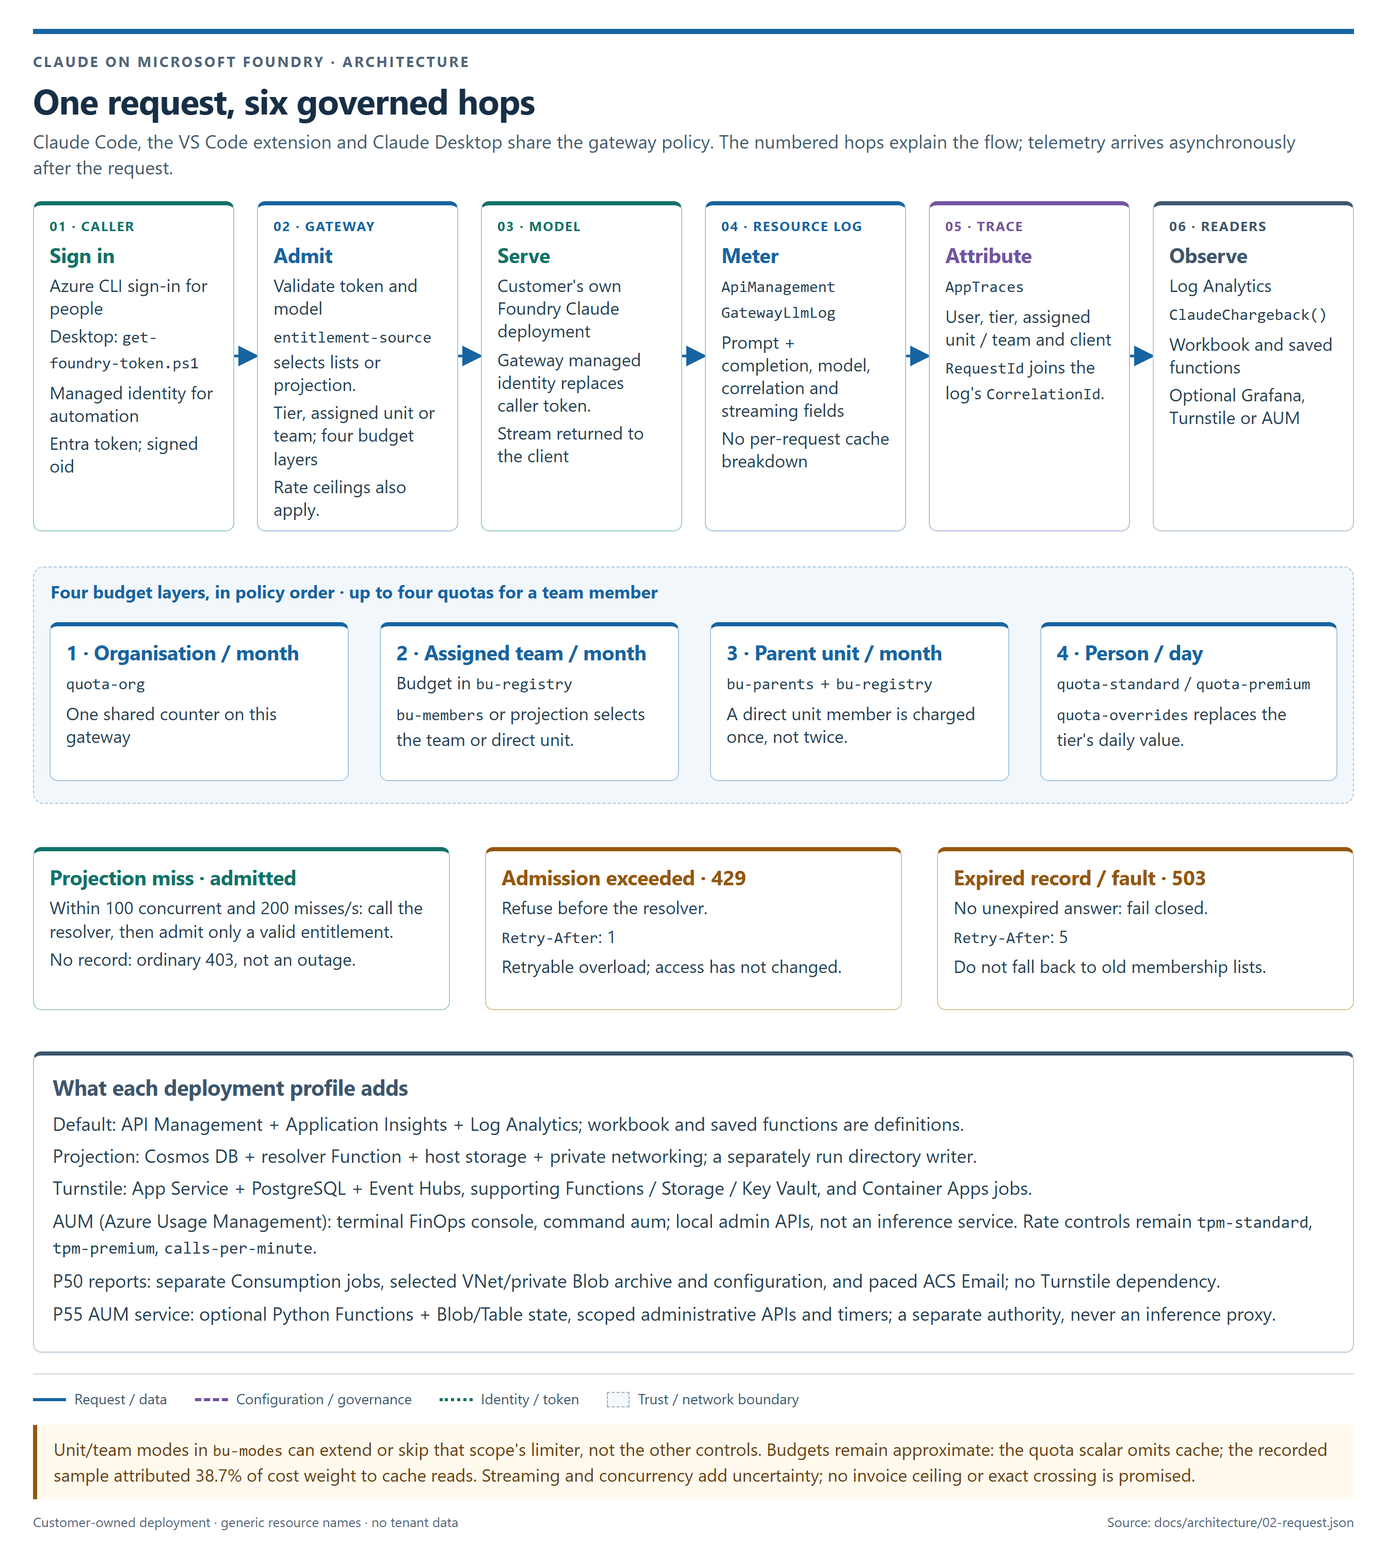
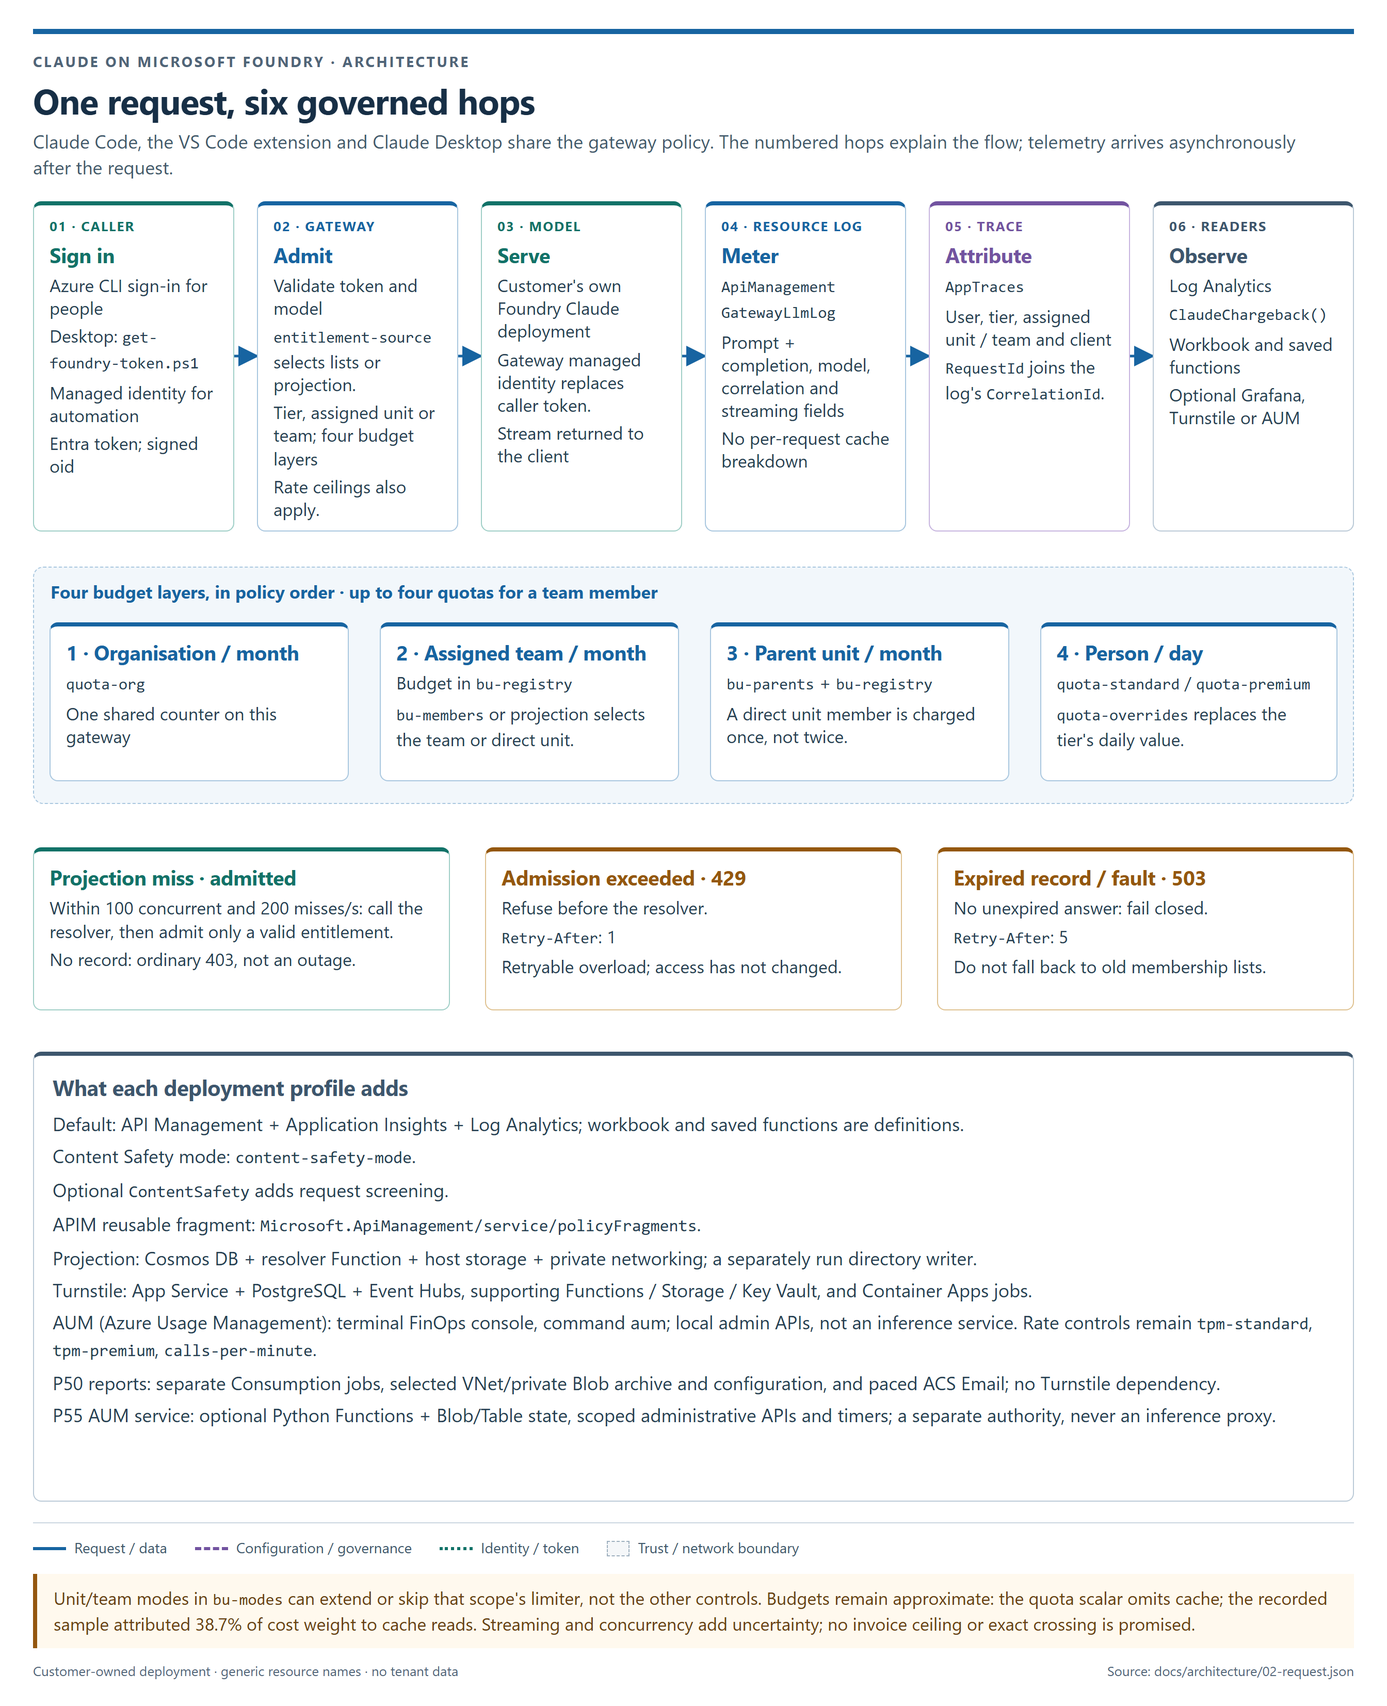
docs(p102): document content safety operations and architecture
Why: P102 adds a new optional data flow and operator surface, so the user guide, architecture diagrams, ledger, changelog, README guide map and installer switch must move with the code.

GREEN: node guide\render-architecture.mjs regenerated 19 PNGs; pwsh -NoProfile -File .\tests\Test-Architecture.ps1 passed with 36 assertions; Test-DocReferences.ps1 and Test-DocMarkdown.ps1 passed; Test-ContentSafetyDeployment.ps1 passed with 9 assertions including the installer opt-in switch.

Copilot-Session: aee52ac6-1314-40f4-9675-e225529db617

Changed region(s): [[0.0312, 0.0, 0.9688, 0.9967], [0.9062, 0.7787, 0.9375, 0.8098]]

diff --git a/CHANGELOG.md b/CHANGELOG.md
@@ -29,6 +29,7 @@ exact streaming cache-creation detail remains **U13**.
 
 ### Added
 
+- **P102 Azure AI Content Safety request screening.** The gateway can opt into an Azure AI Content Safety account and APIM policy fragment that screens the system prompt plus the newest user turn before Foundry. `content-safety-mode` supports `off`, `audit` and `block`; existing deployments default to `off` and create no Content Safety account. The offline policy tests cover benign, harmful, jailbreak, image-only, streaming, long-context and fabricated-history cases, failure modes and safe trace metadata. Deployment tests cover the Content Safety account, named values, role assignment, fragment wiring and region readiness. `scripts/Test-ClaudeLiveContentSafety.ps1` is the owner-run disposable live proof and teardown script.
 - **P98 the installer deploys the Cosmos projection by default.** `Install-ClaudeGateway.ps1` offers
   the projection first, as recommended, for every size; `-Yes` chooses it, and named values above their
   capacity are refused, also under `-Yes` and `-Sku`, from `-DeveloperCount` or the tier groups' members
@@ -2057,6 +2058,7 @@ is below the scale at which chargeback is a question worth asking.
 
 ### Added
 
+- **P102 Azure AI Content Safety request screening.** The gateway can opt into an Azure AI Content Safety account and APIM policy fragment that screens the system prompt plus the newest user turn before Foundry. `content-safety-mode` supports `off`, `audit` and `block`; existing deployments default to `off` and create no Content Safety account. The offline policy tests cover benign, harmful, jailbreak, image-only, streaming, long-context and fabricated-history cases, failure modes and safe trace metadata. Deployment tests cover the Content Safety account, named values, role assignment, fragment wiring and region readiness. `scripts/Test-ClaudeLiveContentSafety.ps1` is the owner-run disposable live proof and teardown script.
 - Chargeback ledger: `analytics/chargeback-ledger.kql`, one row per request with
   the caller attached. Built on the API Management LLM log rather than custom
   metrics, because Microsoft caps a metric dimension at 100 unique values and
@@ -2115,6 +2117,7 @@ compliance retrieval.
 
 ### Added
 
+- **P102 Azure AI Content Safety request screening.** The gateway can opt into an Azure AI Content Safety account and APIM policy fragment that screens the system prompt plus the newest user turn before Foundry. `content-safety-mode` supports `off`, `audit` and `block`; existing deployments default to `off` and create no Content Safety account. The offline policy tests cover benign, harmful, jailbreak, image-only, streaming, long-context and fabricated-history cases, failure modes and safe trace metadata. Deployment tests cover the Content Safety account, named values, role assignment, fragment wiring and region readiness. `scripts/Test-ClaudeLiveContentSafety.ps1` is the owner-run disposable live proof and teardown script.
 - `analytics/claude-code-daily.kql` and `scripts/Get-ClaudeAnalytics.ps1`: Claude
   Code usage in the shape of the Claude Code Analytics API, built from the
   gateway's own telemetry. Anthropic's API does not cover Foundry — "Usage
@@ -2169,6 +2172,7 @@ compliance retrieval.
 
 ### Added
 
+- **P102 Azure AI Content Safety request screening.** The gateway can opt into an Azure AI Content Safety account and APIM policy fragment that screens the system prompt plus the newest user turn before Foundry. `content-safety-mode` supports `off`, `audit` and `block`; existing deployments default to `off` and create no Content Safety account. The offline policy tests cover benign, harmful, jailbreak, image-only, streaming, long-context and fabricated-history cases, failure modes and safe trace metadata. Deployment tests cover the Content Safety account, named values, role assignment, fragment wiring and region readiness. `scripts/Test-ClaudeLiveContentSafety.ps1` is the owner-run disposable live proof and teardown script.
 - Ironclad engineering discipline: `.ironclad/charter.json`, a vendored
   `gate.mjs`, and the `docs/` ledger — CHARTER, ROADMAP, STATUS, UNKNOWNS and
   ADRs. See ADR-0001.
@@ -2193,6 +2197,7 @@ Robustness on Windows, and the first migration tooling.
 
 ### Added
 
+- **P102 Azure AI Content Safety request screening.** The gateway can opt into an Azure AI Content Safety account and APIM policy fragment that screens the system prompt plus the newest user turn before Foundry. `content-safety-mode` supports `off`, `audit` and `block`; existing deployments default to `off` and create no Content Safety account. The offline policy tests cover benign, harmful, jailbreak, image-only, streaming, long-context and fabricated-history cases, failure modes and safe trace metadata. Deployment tests cover the Content Safety account, named values, role assignment, fragment wiring and region readiness. `scripts/Test-ClaudeLiveContentSafety.ps1` is the owner-run disposable live proof and teardown script.
 - `Import-ClaudeEntitlement.ps1`: bulk entitlement from a CSV or an Entra group,
   resolving identifiers four ways because a directory holds a person under
   several addresses.
@@ -2230,6 +2235,7 @@ Robustness on Windows, and the first migration tooling.
 
 ### Added
 
+- **P102 Azure AI Content Safety request screening.** The gateway can opt into an Azure AI Content Safety account and APIM policy fragment that screens the system prompt plus the newest user turn before Foundry. `content-safety-mode` supports `off`, `audit` and `block`; existing deployments default to `off` and create no Content Safety account. The offline policy tests cover benign, harmful, jailbreak, image-only, streaming, long-context and fabricated-history cases, failure modes and safe trace metadata. Deployment tests cover the Content Safety account, named values, role assignment, fragment wiring and region readiness. `scripts/Test-ClaudeLiveContentSafety.ps1` is the owner-run disposable live proof and teardown script.
 - Interactive admin setup, one-command developer setup, and an onboarding email
   template.
 - macOS and Linux versions of the admin and workstation scripts.
@@ -2247,6 +2253,7 @@ Initial release.
 
 ### Added
 
+- **P102 Azure AI Content Safety request screening.** The gateway can opt into an Azure AI Content Safety account and APIM policy fragment that screens the system prompt plus the newest user turn before Foundry. `content-safety-mode` supports `off`, `audit` and `block`; existing deployments default to `off` and create no Content Safety account. The offline policy tests cover benign, harmful, jailbreak, image-only, streaming, long-context and fabricated-history cases, failure modes and safe trace metadata. Deployment tests cover the Content Safety account, named values, role assignment, fragment wiring and region readiness. `scripts/Test-ClaudeLiveContentSafety.ps1` is the owner-run disposable live proof and teardown script.
 - Governed gateway for Claude Code on Microsoft Foundry: API Management Basic v2,
   per-developer token budgets keyed on the Entra object id, tiering from Entra
   group membership, and chargeback telemetry. The gateway holds the only Foundry
@@ -2264,3 +2271,4 @@ Initial release.
 [1.2.0]: https://github.com/naveenneog/claude-code-foundry-gateway/compare/v1.1.0...v1.2.0
 [1.1.0]: https://github.com/naveenneog/claude-code-foundry-gateway/compare/v1.0.0...v1.1.0
 [1.0.0]: https://github.com/naveenneog/claude-code-foundry-gateway/releases/tag/v1.0.0
+

diff --git a/docs/status/P102.md b/docs/status/P102.md
@@ -69,3 +69,43 @@ ADR-0055 proposes:
 ### Architecture impact
 
 P102 adds a component and a data flow: the APIM gateway calls Azure AI Content Safety with its managed identity before forwarding a screened Claude request to Foundry. The implementation stage must update the diagram source under `docs/architecture/`, run `node guide/render-architecture.mjs`, inspect the images and update `docs/ARCHITECTURE.md`. The packet is not architecturally neutral.
+
+### Offline implementation evidence, 2026-10-07
+
+RED evidence:
+
+- Slice 1/3 policy tests: `pwsh -NoProfile -File .\tests\Test-ContentSafetyPolicy.ps1` first failed with `The term '...\scripts\ClaudeContentSafety.ps1' is not recognized as a name of a cmdlet, function, script file, or executable program.`
+- Slice 5 deployment tests: `pwsh -NoProfile -File .\tests\Test-ContentSafetyDeployment.ps1` first failed with `Cannot find path '...\infra\content-safety.bicep' because it does not exist.`
+- Slice 9 live-script tests: `pwsh -NoProfile -File .\tests\Test-ContentSafetyLiveScript.ps1` first failed because `scripts\Test-ClaudeLiveContentSafety.ps1` was not recognized as a script file.
+
+GREEN evidence:
+
+- `42c4ae5b feat(p102): add content safety request screening contract` covers acceptance criteria 1-15 and 18 offline for request slicing, modes, block/audit/off behavior, fail-closed errors, Anthropic-style error JSON, safe trace metadata and the APIM fragment include. Test: `pwsh -NoProfile -File .\tests\Test-ContentSafetyPolicy.ps1` passed with 28 assertions.
+- `1cb39414 feat(p102): wire optional content safety deployment` covers acceptance criteria 16-17 offline for the Content Safety account, S0 SKU, custom subdomain, disabled local auth, APIM role assignment, named values, APIM policy fragment resource and region readiness. Test: `pwsh -NoProfile -File .\tests\Test-ContentSafetyDeployment.ps1` passed with 9 assertions after the installer switch was added; it includes `az bicep build --file infra\main.bicep --stdout --only-show-errors`.
+- `bce1e583 feat(p102): add disposable content safety live proof script` covers the slice 9 offline contract. Test: `pwsh -NoProfile -File .\tests\Test-ContentSafetyLiveScript.ps1` passed with 8 assertions against a stubbed `az`, proving input validation before Azure calls, default-profile refusal unless `-UseCurrentAzLogin`, run-specific resource names, setup call order, T1-T11 evidence fields and teardown limited to the recorded created resource group.
+- `92a74aa5 test(p102): register content safety negative detectors` registers the new suites in `tests\Test-All.ps1`. Test: `pwsh -NoProfile -File .\tests\Test-ContentSafetyNegative.ps1` passed with 3 assertions.
+
+Negative checks:
+
+- Removing `<include-fragment fragment-id="content-safety-screening" />` from a copied fixture made `Test-ContentSafetyPolicy.ps1` fail on the APIM include detector.
+- Removing `harmful` from the offline harm detector in a copied fixture made `Test-ContentSafetyPolicy.ps1` fail on the harmful user-string 403 detector.
+- Replacing `createdResourceGroup` in a copied live-script fixture made `Test-ContentSafetyLiveScript.ps1` fail on the teardown ownership detector.
+
+Documentation and architecture evidence:
+
+- `docs\CONTENT-SAFETY.md` documents the modes, screened slice, deployment shape, live script and KQL query with Microsoft Learn sources read 2026-10-06.
+- `docs\architecture\02-request.json`, `docs\ARCHITECTURE.md`, generated images and `docs\architecture\manifest.json` record the APIM-to-Content-Safety data flow. `node guide\render-architecture.mjs` wrote 19 PNGs and verified source and image SHA-256 values. `pwsh -NoProfile -File .\tests\Test-Architecture.ps1` passed with 36 assertions.
+
+Council:
+
+- Architect: PASS. The Content Safety account is optional, deployment defaults keep existing gateways off, and the new APIM policy fragment is represented in architecture source and images.
+- Coder: PASS-WITH-NOTES. The offline policy harness models the APIM contract for tests; the APIM fragment stays declarative and bounded. Follow-up live evidence must compare the real fragment behavior with T1-T11.
+- QA: PASS. Policy, deployment, live-script and negative suites cover the offline acceptance criteria and are registered in `tests\Test-All.ps1`.
+- UX: PASS. Block and outage responses use short Anthropic-style JSON without prompt text; the live script reports the receipt path and teardown status.
+- Security: PASS-WITH-NOTES. Prompt text is excluded from trace metadata by tests, local auth is disabled on the Content Safety account, and teardown deletes only recorded resources. The remaining proof is live telemetry showing no prompt text in Application Insights.
+
+No contradiction with ADR-0055 was found. U149 remains open until Cost Management exposes meter quantities; this offline packet does not claim cost proof.
+
+### Live evidence still required
+
+The owner-run `scripts\Test-ClaudeLiveContentSafety.ps1` must prove acceptance criteria 19-22: T1, T2, T9 and T11 pass; T3-T8 and T10 block; a benign real-Claude request returns 200; a harmful real-Claude request returns 403 before Foundry; long-context and fabricated-history cases produce the documented evidence; trace rows contain no prompt text; teardown removes the Content Safety role assignment and deletes, or records deleting, the run-specific resource group.

diff --git a/docs/CONTENT-SAFETY.md b/docs/CONTENT-SAFETY.md
@@ -1,0 +1,50 @@
+# Azure AI Content Safety request screening
+
+P102 adds optional request screening in API Management before a Claude Messages request reaches Microsoft Foundry. The default deployment remains unchanged: `deployContentSafety` is `false`, `content-safety-mode` is `off`, and the policy fragment emits no Content Safety calls.
+
+## What is screened
+
+The gateway screens only the Claude Messages `system` field and the newest `user` message. It builds two Azure AI Content Safety requests:
+
+- Prompt Shields `text:shieldPrompt`: `userPrompt` from newest user text, and `documents` from newest user `tool_result` text.
+- Harm analysis `text:analyze`: system text, newest user text and newest user `tool_result` text, using `Hate`, `Violence`, `SelfHarm` and `Sexual` with `FourSeverityLevels`.
+
+The newest slice is capped at 10,000 characters and tool-result documents at five documents and 10,000 total characters. When the newest turn is over budget, the policy screens the newest part and logs `truncated=true`. Earlier conversation turns are not screened; the fabricated-history case is a documented limit, not a safety pass. The contract is in [ADR-0055](adr/0055-content-safety-screening.md), based on Microsoft Learn pages for [Analyze Text](https://learn.microsoft.com/en-us/rest/api/contentsafety/text-operations/analyze-text?view=rest-contentsafety-2024-09-01), [Shield Prompt](https://learn.microsoft.com/en-us/rest/api/contentsafety/text-operations/shield-prompt?view=rest-contentsafety-2024-09-01), [Prompt Shields](https://learn.microsoft.com/en-us/azure/ai-services/content-safety/concepts/jailbreak-detection) and [region availability](https://learn.microsoft.com/en-us/azure/ai-services/content-safety/region-availability), read 2026-10-06.
+
+## Modes
+
+| Mode | Behavior |
+|---|---|
+| `off` | No Prompt Shields or analyze call is made. The existing Foundry forwarding path is unchanged. |
+| `audit` | Prompt Shields and analyze run and trace the decision, but the Claude request continues. Content Safety errors are logged. |
+| `block` | Detected prompt attacks or severity at or above `content-safety-threshold` return Anthropic-style 403 JSON before Foundry. Content Safety errors or timeouts return 503 with `Retry-After: 5`. |
+
+The default threshold is `2`, matching the first nonzero severity in `FourSeverityLevels`.
+
+## Deployment
+
+`infra/main.bicep` always creates the APIM policy fragment and named values so the policy shape is stable. The Azure AI Content Safety account is created only when `deployContentSafety=true`. The module `infra/content-safety.bicep` creates a Cognitive Services account with `kind: ContentSafety`, SKU `S0`, a custom subdomain, disabled local authentication, and a Cognitive Services User role assignment for the APIM managed identity. Microsoft Entra authentication for AI services requires a custom subdomain and Microsoft recommends disabling local authentication when using Entra ID ([Microsoft Learn, read 2026-10-06](https://learn.microsoft.com/en-us/azure/ai-services/authentication)).
+
+The disposable live proof script is `scripts/Test-ClaudeLiveContentSafety.ps1`. It validates inputs before any Azure CLI call, refuses the default Azure CLI profile unless `-UseCurrentAzLogin` is passed, creates run-specific resources, records T1-T11 decisions and latency when HTTP checks run, and tears down only the resource group recorded as created by that run.
+
+## Logging
+
+The policy traces under source `claude-content-safety`. Metadata includes mode, decision, blocked reason, severity numbers, booleans for Prompt Shields results, threshold, truncation and elapsed milliseconds. It does not store prompt text, system text, tool text, model output, image bytes or matched snippets.
+
+```kusto
+traces
+| where timestamp > ago(24h)
+| where customDimensions.Source == "claude-content-safety" or customDimensions.source == "claude-content-safety"
+| project timestamp,
+          operation_Id,
+          mode=tostring(customDimensions.mode),
+          decision=tostring(customDimensions.decision),
+          blockedBy=tostring(customDimensions.blockedBy),
+          hate=toint(customDimensions.hateSeverity),
+          violence=toint(customDimensions.violenceSeverity),
+          selfHarm=toint(customDimensions.selfHarmSeverity),
+          sexual=toint(customDimensions.sexualSeverity),
+          truncated=tobool(customDimensions.truncated),
+          elapsedMs=toint(customDimensions.contentSafetyElapsedMs)
+| order by timestamp desc
+```

diff --git a/README.md b/README.md
@@ -76,6 +76,7 @@ portal route.
 | Use a terminal FinOps console or automate reports | [AUM (Azure Usage Management)](docs/AUM.md#install) — installation, connection setup, terminal actions and scriptable commands |
 | Deploy clients and managed settings with MDM | [Fleet deployment with Intune, Jamf or Group Policy](docs/MDM.md) — profiles, apps, assignments, verification and rollback |
 | Manage a business unit or view its usage | [Turnstile: viewers and managers](docs/TURNSTILE.md#viewers-and-managers) — assigned roles and sign-in without web consent |
+| Screen Claude requests with Azure AI Content Safety | [Content Safety](docs/CONTENT-SAFETY.md) — optional Prompt Shields and harm analysis before Foundry |
 | Review security, identities or revocation | [Authentication](docs/AUTHENTICATION.md), then [Network](docs/NETWORK.md) |
 | Configure firewalls, private endpoints or VNet access | [Network](docs/NETWORK.md), then [Private projection](docs/SECURE-PROJECTION.md) |
 | Plan for 500,000 developers | [Scale](docs/SCALE.md) — measured envelope, unresolved limits and cost assumptions |
@@ -319,3 +320,4 @@ tests, the packet gate, PowerShell encoding and Windows Azure CLI quoting.
 ## License
 
 MIT — see [LICENSE](LICENSE).
+

diff --git a/docs/ARCHITECTURE.md b/docs/ARCHITECTURE.md
@@ -15,7 +15,7 @@ inspection, prior job history and tests still blocked or deliberately not perfor
 ## Overview
 
 API Management is the enforcement point. It validates the caller's Microsoft Entra token,
-resolves entitlement, checks model access and token budgets, and replaces the caller's
+resolves entitlement, optionally screens request text with Azure AI Content Safety, checks model access and token budgets, and replaces the caller's
 token with the gateway's managed identity before calling Foundry. The governance and
 reporting tools configure or observe that path; they do not proxy inference.
 
@@ -827,3 +827,4 @@ Review behavior against the implementation whenever a feature changes a componen
 flow, identity, schedule or network path. PNGs are repeatable with the same locked
 Playwright/browser and installed fonts; cross-platform font rasterization can differ
 without changing the architecture.
+
